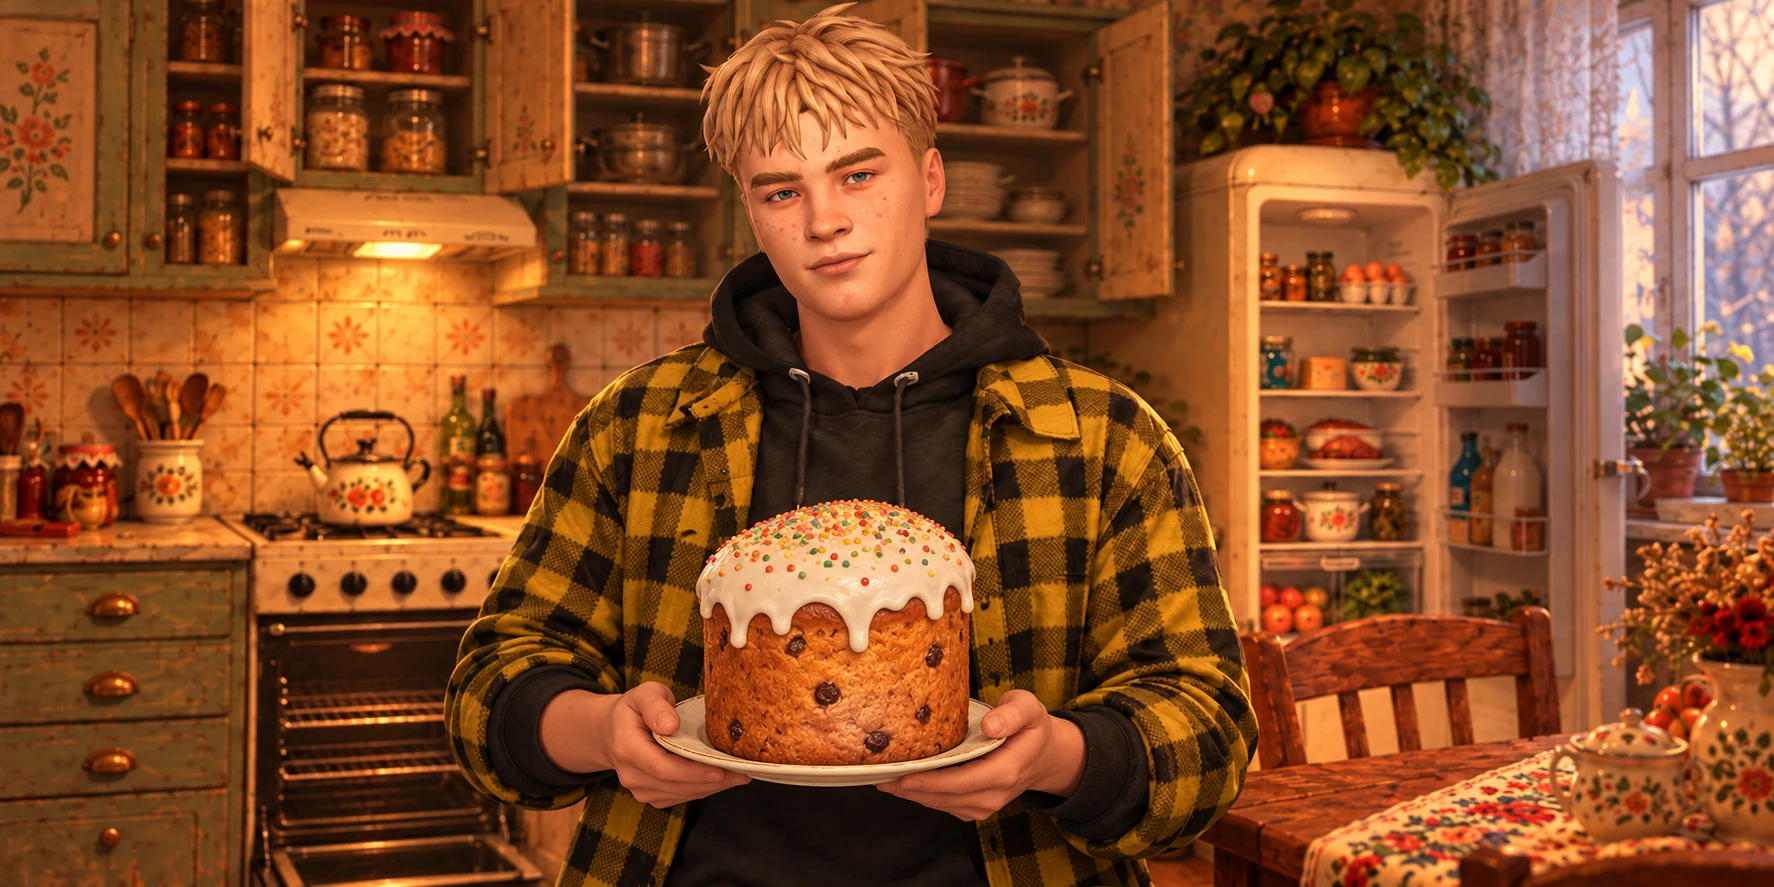
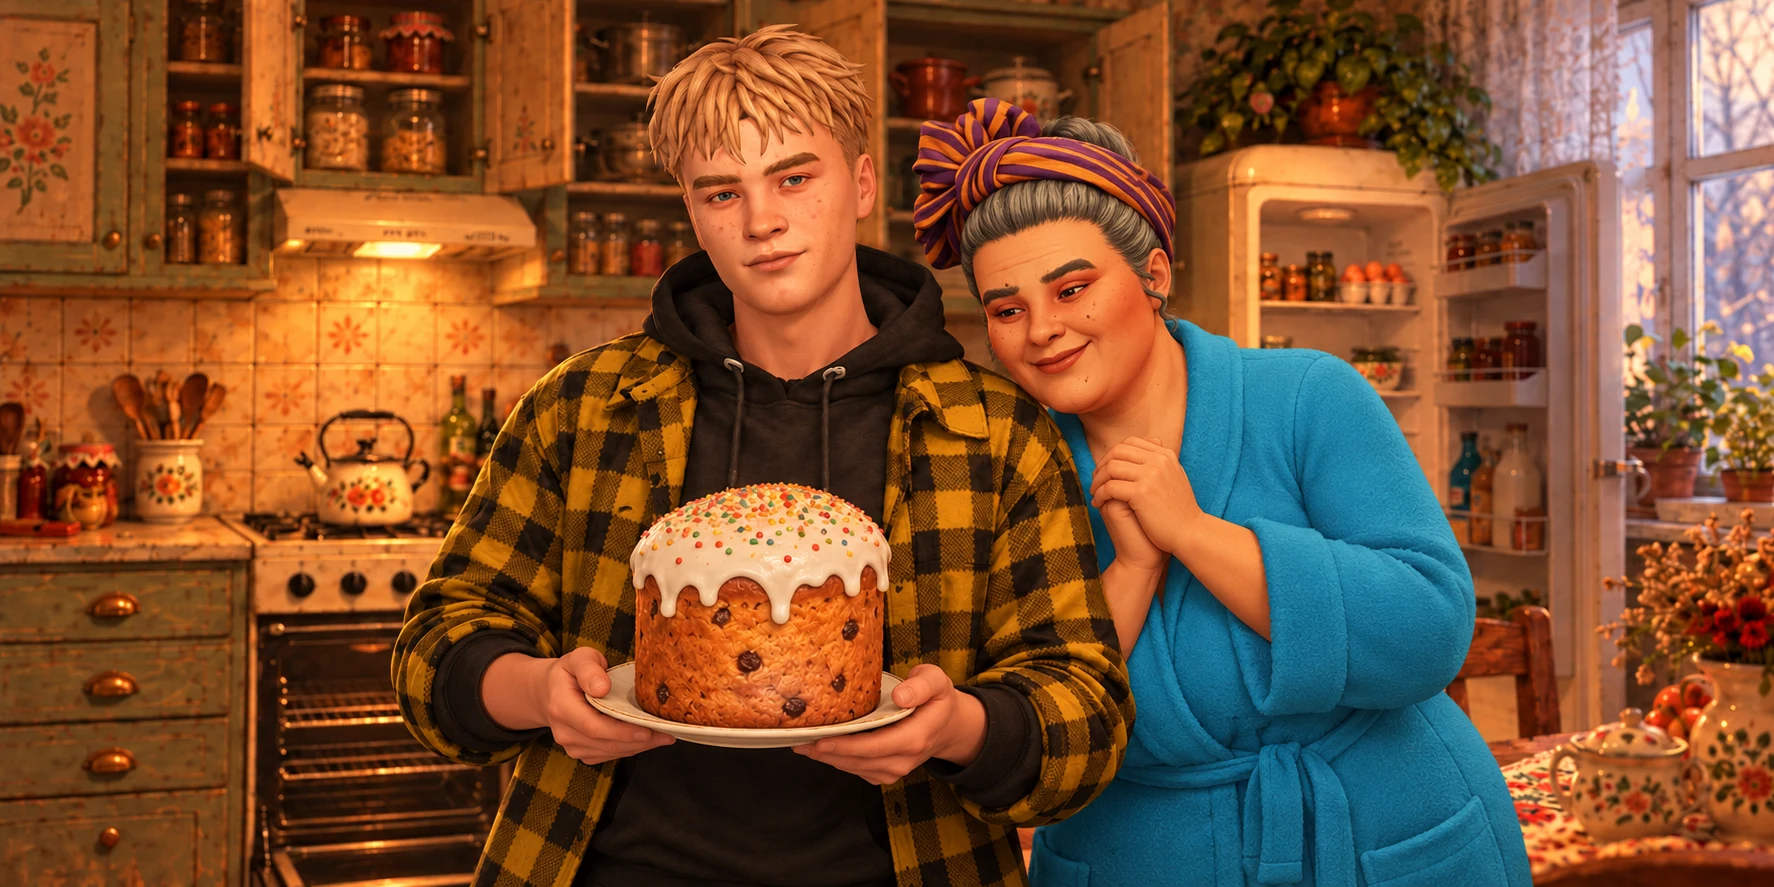
Neues Schlussbild mit Aci und Anfisa

diff --git a/quest-ostern.html b/quest-ostern.html
@@ -338,7 +338,7 @@
 
   // Wird bei jedem Paket neu gesetzt. Steht unten im Startbildschirm, damit man
   // sofort sieht, welche Fassung gerade live ist.
-  const BAUSTAND = '28.10.2026 10:23';
+  const BAUSTAND = '28.10.2026 10:24';
   const SPEICHER_KEY = 'ostern_fortschritt';
   const HINWEISE_GESAMT = 3;
   // Gemeinsamer Faktor für alle Eier. Die Radien in EIER bleiben, hier wird
